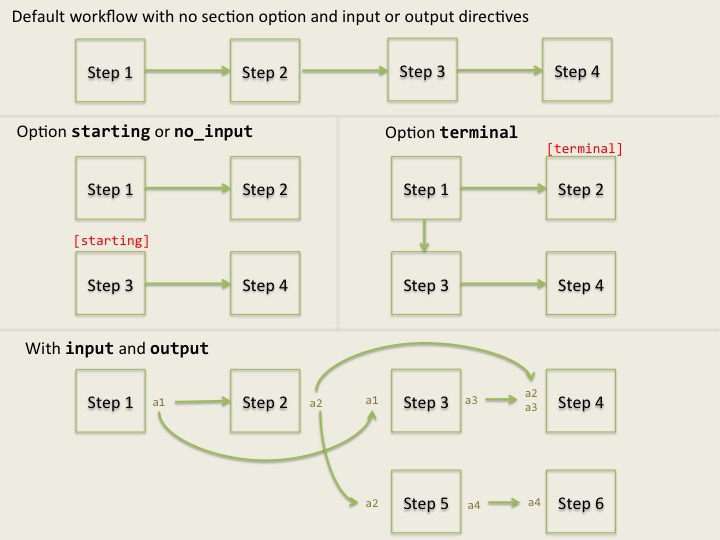
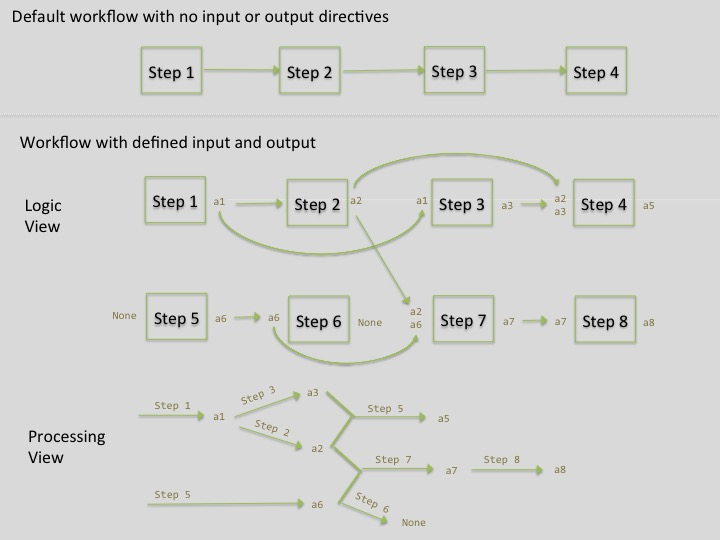
Remove step options no_input, starting, and terminal

diff --git a/doc/sos_format_v1.md b/doc/sos_format_v1.md
@@ -403,18 +403,11 @@ key4=value4
 **Step options** are specified after step name and controls how the step will be executed. SoS provides the following options
 
 * **`skip`**: the whole step will be skipped as if it is not defined at all in the script. This option provides a quick method to disable a step.
-* **`no_input`**: this step does not need any input so it is a **root** of the execution tree. This option disconnects the current step with its previous steps so that it can be
-    executed before the completion of previous steps. 
-* **`terminal`**: this step is one of the **terminals** or **leafs** of the execution tree. This allows the later steps to be
-   executed before the completion of this step. The step can have output but no other step should depend on these output
-   files.
-* **`nonconcurrent`**: if the step action will be repeated (using input options `group_by` or `for_each`), the loop actions are assumed to be parallel executable.
-  If for some reason this assumption is wrong, you can set option `nonconcurrent` to let the actions execute sequentially.  
+* **`nonconcurrent`**: if the step action will be repeated (using input options `group_by` or `for_each`), the loop actions are assumed to be parallel executable. If for some reason this assumption is wrong, you can set option `nonconcurrent` to let the actions execute sequentially.  
 * **`blocking`**: the step can only be executed by one instance of SoS. All other SoS instances will wait until one instance complete this step. This option should be used for actions such as the creation of index and downloading of resources.
 * **`sigil`**: alternative sigil of the step, which should be a string with space. E.g. `sigil='[ ]'` allows the use of expressions such as
   `[input]` in this step.
 * **`target`**: target filename that will trigger an [auxillary step](sos_format_v1.md#auxiliary-workflow-steps-and-makefile-style-dependency-rules).
-
 
 
 ### Description of step
@@ -432,7 +425,7 @@ Because variables pass information from one step to another and dictates how act
 
 * Before entering the step:
   * **`step_index`** (string) is defined automatically to the index of the current step 
-  * **`step_input`** (list of strings): input from the last completed step, or `[]` if step option `no_input` is set.
+  * **`step_input`** (list of strings): input from the last completed step, or `[]` for the first step.
 
 * **Pre-input varialbes** will be defined before the processing of input files. It is possible to redefine `step_input` here.
  
@@ -476,16 +469,14 @@ run(''' ... ''')
 
 The input of SoS step follows the following rules:
 
-1. **the input of a SoS step is by default the output of the previous step**.
-3. **step option `no_input` specifies that no input file is needed for the current step**
-4. **Input of a step can be specified by directive `input`**, which should be a list or tupe of either 
-    filenames (quoted strings) or SoS variables (use names of variables), or expressions that return
-	filenames.  Wildcard characters
-	(`*` and `?`) are always expanded. 
+* **the input of a SoS step is by default the output of the previous step**, or `None` for the first step.
+* **directive `input`**, which could be either **`None`** for no input, or **a list** of filenames (string literal, variables, or expressions that return filenames).  Wildcard characters (`*` and `?`) are always expanded. Nested lists are flattened.
 
 Examples of input specification are as follows:
 
 ```
+input: None
+
 input:
 	'file1.fasta', 'file2.fasta'
 
@@ -510,14 +501,15 @@ input:
 
 ```
 
-It does not matter if `aligned_reads` and `reference_genome` are strings or lists of strings. SoS will expand wildcard characters and flatten the lists to a single list of filenames.
+It is worth noting that
 
-Of special interest is the use of functions such as `glob.glob` to determine input files. This can be very useful for workflows that, for example, regularly scan a directory and process unprocessed files. However, because the value of this step depends on availability of files, the output of `sos show script` and the executation path will be unpredictable, and even wrong if there is no available file during the execution of `sos show script`.
+* The first examples shows that the step does not need any input file (so it does not depend on any other step). 
+* It does not matter if `aligned_reads` and `reference_genome` are strings or lists of strings because SoS will flatten nested lists to a single list of filenames.
+* The use of functions such as `glob.glob` to determine input files can be very useful for workflows that, for example, regularly scan a directory and process unprocessed files. However, because the value of this step depends on availability of files, the output of `sos show script` and the executation path will be unpredictable, and even wrong if there is no available file during the execution of `sos show script`.
 
 ### Input options 
 
-The input options of a SoS step control how input files are passed to the step action. They should be keyword arguments appended to list
-of input files.
+The input options of a SoS step control how input files are passed to the step action. They should be keyword arguments appended to list of input files.
 
 #### Passing input files all at once (default)
 
@@ -801,7 +793,7 @@ output:
 ```
 
 
-The following figure summarizes the effect of section option `no_input`, `input`
+The following figure summarizes the effect of `input`
 and `output` directives and input options `group_by` and `for_each` on the flow
 of input and output files and related variables.
 
@@ -890,11 +882,7 @@ Here is a summary of execution rules of workflows
 * If a step does not specify any input, it is assumed to depend on all previous steps and will be executed only when 
   all previous steps are completed. 
 * If a step does not specify any output, all following steps are assumed to depend on its output and have to wait 
-  for its completion, except for steps with options `no_input` or `starting`.
-* Option **`no_input`** and **`starting`** starts a few root of the execution tree with the difference that
-  no `input` directive is allowed for `no_input` steps.
-* Option **`terminal`** stops a branch of the execution tree. Later steps can be executed in paralle with this step
-  (they will depend on its previous step if no input is specified).
+  for its completion, except for steps with `None` input.
 * **`input`** directive will make the step movable and be executed whenever its dependent files are available.
 * **`output`** directive will allow steps that depend on the output files be executed immediately after this step.
 

diff --git a/doc/implementation.md b/doc/implementation.md
@@ -70,14 +70,14 @@ This technique is suited for time-consuming quality control steps that are not n
 If parameter `-j` (jobs) is specified with a number more than 1, the SoS script will be executed in parallel
 up to the specified number of concurrent processes. There are three sources of concurrent execution:
 
-1. **multiple branches of the execution tree**: If the SoS script has multiple starting points (defined by step options
-	`no_input` and `starting`), these branches will be executed in parallel.
+1. **multiple branches of the execution tree**: If the SoS script has multiple starting points (defined by steps with no input
+   or independent input files), these branches will be executed in parallel.
 
 2. **concurrent actions of single steps**: If a single SoS step executes actions repeatedly (with input option 
 	`for_each`), these actions will be executed in parallel.
 
 3. **no wait** execution of sequential steps: If a step specifies output files, SoS will not wait for the
-   completion of the step, execute steps with explicit input (or `no_input`) and proceed until the output file
+   completion of the step, execute steps with explicit input and proceed until the output file
    is needed, in which case SoS will have to wait till the output file is available.
 
 SoS takes an conservative approach and execute actions in parallel only when it is safe to do so. That is 
@@ -85,11 +85,10 @@ to say, if no step option, input, or output of a step is specified (e.g. using S
 the step will only be started with the completion of the previous step, and will block the execution of the
 workflow until it is completed. For a SoS script to be executely safely in parallel mode, you should
 
-1. Use option `no_input` if the step does not rely on any input. (e.g. action `download`)
-2. Use option `nonconcurrent` if the looped actions cannot be executed in parallel.
-4. Specify `input` and `depends` files for each step so that they would not be executed
+* Use option `nonconcurrent` if the looped actions cannot be executed in parallel.
+* Specify `input` and `depends` files for each step so that they would not be executed
   without needed input or dependent files.
-5. Specify `output` files so that SoS knows what files to expect from a step and wait for the
+* Specify `output` files so that SoS knows what files to expect from a step and wait for the
   completion of the step if necessary.
 
 Failure to specify these options correctly will make your script executed in sequential mode, or

diff --git a/doc/problems.md b/doc/problems.md
@@ -3,9 +3,7 @@
 **Table of Contents**  *generated with [DocToc](https://github.com/thlorenz/doctoc)*
 
 - [File format](#file-format)
-  - [Section option `terminal` and `starting`](#section-option-terminal-and-starting)
   - [Default input of step?](#default-input-of-step)
-  - [Section option `no_input`](#section-option-no_input)
   - [design of `for_each`](#design-of-for_each)
   - [Use of dictionary variable](#use-of-dictionary-variable)
   - [Enforce naming convention?](#enforce-naming-convention)
@@ -31,29 +29,18 @@
   - [trouble with sigil usage](#trouble-with-sigil-usage)
   - [Moving parameters of action to section level](#moving-parameters-of-action-to-section-level)
   - [Alternative or configurable global sigil?](#alternative-or-configurable-global-sigil)
+  - [Section option `no_input`](#section-option-no_input)
+  - [Section option `terminal` and `starting`](#section-option-terminal-and-starting)
 
 <!-- END doctoc generated TOC please keep comment here to allow auto update -->
 
 ## File format
-
-
-### Section option `terminal` and `starting`
-
-These can be determined automatically if input and output files are specified, right? 
-These options are therefore not needed. In addition, adding the option `terminal` does not prevent
-other steps to depend on the ouput files of a step, leading to potential errors.
 
 ### Default input of step?
 
 Would it clearer to require explicit input files? Right now the a step's `step_input` is 
 the output of previous step. The problem with no default input is that output alias are 
 almost always required and make the script a bit cumbersome.
-
-
-
-### Section option `no_input`
-
-This can be replaced by something like `input: None` so no separate option is needed.
 
 
 
@@ -409,4 +396,20 @@ specified one, but it seems to be an overkill.
 
 Decision: not worry about it now because default sigil should be good enough for most cases.
 
+
+
+### Section option `no_input`
+
+This can be replaced by something like `input: None` so no separate option is needed.
+
+Decided to use `input: None`
+
+
+### Section option `terminal` and `starting`
+
+These can be determined automatically if input and output files are specified, right? 
+These options are therefore not needed. In addition, adding the option `terminal` does not prevent
+other steps to depend on the ouput files of a step, leading to potential errors.
+
+Decided to use no special option and rely on input and output specification of steps.
 

diff --git a/doc/examples.md b/doc/examples.md
@@ -61,7 +61,7 @@ For example, for the SoS script defined in the [tutorial](../README.md),
 # and the second one for mutated sample.
 fasta_files=['control.fasta', 'mutated.fasta']
 
-[1: no_input]
+[1]
 # create a index for reference genome
 run('''
 STAR --runMode genomeGenerate --genomeFastaFile human38.fasta --genomeDir STAR_index
